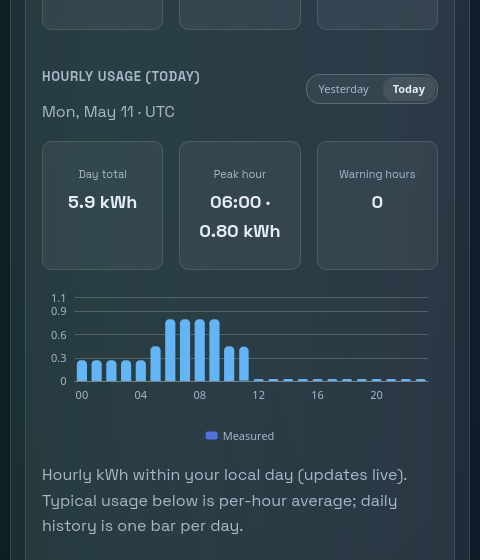
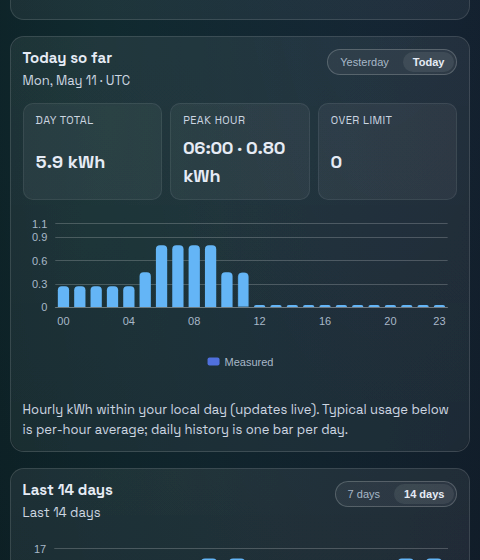
Swap Usage primitives to Material Web components
Replace the page-local segmented toggles, status pills, and the moved
Reset stats button with their Material Web equivalents so the redesign
uses real M3 components rather than bespoke look-alikes.

- createToggleGroup now mounts md-tabs + md-secondary-tab. The active
  tab is reflected via the `active` attribute; the change callback
  guards against the programmatic-set echo so callers don't double-fire.
- The "vs pace" hero chip and the "No data" day-status pill are now
  md-assist-chip. Tone-driven styling (ok / warn / alert / muted) is
  applied via a thin data-tone CSS layer over Material Web's design
  tokens.
- The week-nav (‹/›) buttons inside the collapsed Detailed hourly view
  use md-text-button; the relocated "Reset all stats" button in
  Settings → Advanced → Data management is md-text-button as well.
- Register the new components (md-tabs, md-secondary-tab, md-assist-chip)
  in materialWeb.ts, and stub Element.prototype.scrollTo in the vitest
  setup since md-tabs scrolls the active tab into view on activate and
  jsdom does not implement scrollTo.

diff --git a/packages/settings-ui/public/style.css b/packages/settings-ui/public/style.css
@@ -4992,13 +4992,64 @@ body[data-ui-variant="redesign"] #devices-panel > .card__header {
 
 .usage-week-nav {
   flex: none;
+  display: inline-flex;
+  align-items: center;
+  gap: var(--spacing-1);
 }
 
-.usage-week-nav .day-view-toggle__button {
-  min-width: 36px;
-  padding-inline: var(--spacing-3);
-  font-size: 1.1rem;
-  line-height: 1;
+/* Material Web Secondary Tabs as our segmented control. */
+.pels-segmented-tabs {
+  --md-secondary-tab-container-color: var(--pels-surface-container-low);
+  --md-secondary-tab-active-indicator-color: var(--accent);
+  --md-secondary-tab-active-label-text-color: var(--accent);
+  --md-secondary-tab-label-text-color: var(--pels-text-secondary);
+  --md-secondary-tab-label-text-font: inherit;
+  --md-secondary-tab-label-text-size: var(--font-size-sm, 0.875rem);
+  --md-secondary-tab-container-height: 36px;
+  --md-sys-color-surface: var(--pels-surface-container-low);
+  --md-sys-color-surface-variant: var(--pels-surface-container-low);
+  border-radius: var(--radius-md);
+  background: var(--pels-surface-container-low);
+  border: 1px solid var(--pels-surface-outline);
+  overflow: hidden;
+  min-width: 0;
+}
+
+/* Material Web assist chips: tonal status variants driven by data-tone. */
+md-assist-chip[data-tone] {
+  --md-assist-chip-outline-color: var(--pels-surface-outline);
+  --md-assist-chip-label-text-color: var(--pels-text-primary, var(--text));
+  --md-assist-chip-label-text-font: inherit;
+  --md-assist-chip-label-text-size: var(--chip-font-size);
+  --md-assist-chip-container-shape: var(--chip-radius);
+  --md-assist-chip-container-height: 28px;
+}
+
+md-assist-chip[data-tone="ok"] {
+  --md-assist-chip-outline-color: var(--pels-status-good-border);
+  --md-assist-chip-label-text-color: var(--pels-status-on-good);
+  background: var(--pels-status-good-container);
+}
+
+md-assist-chip[data-tone="warn"] {
+  --md-assist-chip-outline-color: var(--pels-status-warning-border);
+  --md-assist-chip-label-text-color: var(--pels-status-on-warning);
+  background: var(--pels-status-warning-container);
+}
+
+md-assist-chip[data-tone="alert"] {
+  --md-assist-chip-outline-color: var(--pels-status-critical-border);
+  --md-assist-chip-label-text-color: var(--pels-status-on-critical);
+  background: var(--pels-status-critical-container);
+}
+
+md-assist-chip[data-tone="muted"] {
+  background: var(--pels-surface-container-high);
+  --md-assist-chip-label-text-color: var(--pels-text-secondary);
+}
+
+md-assist-chip[hidden] {
+  display: none;
 }
 
 .usage-footer {

diff --git a/settings/style.css b/settings/style.css
@@ -4992,13 +4992,64 @@ body[data-ui-variant="redesign"] #devices-panel > .card__header {
 
 .usage-week-nav {
   flex: none;
+  display: inline-flex;
+  align-items: center;
+  gap: var(--spacing-1);
 }
 
-.usage-week-nav .day-view-toggle__button {
-  min-width: 36px;
-  padding-inline: var(--spacing-3);
-  font-size: 1.1rem;
-  line-height: 1;
+/* Material Web Secondary Tabs as our segmented control. */
+.pels-segmented-tabs {
+  --md-secondary-tab-container-color: var(--pels-surface-container-low);
+  --md-secondary-tab-active-indicator-color: var(--accent);
+  --md-secondary-tab-active-label-text-color: var(--accent);
+  --md-secondary-tab-label-text-color: var(--pels-text-secondary);
+  --md-secondary-tab-label-text-font: inherit;
+  --md-secondary-tab-label-text-size: var(--font-size-sm, 0.875rem);
+  --md-secondary-tab-container-height: 36px;
+  --md-sys-color-surface: var(--pels-surface-container-low);
+  --md-sys-color-surface-variant: var(--pels-surface-container-low);
+  border-radius: var(--radius-md);
+  background: var(--pels-surface-container-low);
+  border: 1px solid var(--pels-surface-outline);
+  overflow: hidden;
+  min-width: 0;
+}
+
+/* Material Web assist chips: tonal status variants driven by data-tone. */
+md-assist-chip[data-tone] {
+  --md-assist-chip-outline-color: var(--pels-surface-outline);
+  --md-assist-chip-label-text-color: var(--pels-text-primary, var(--text));
+  --md-assist-chip-label-text-font: inherit;
+  --md-assist-chip-label-text-size: var(--chip-font-size);
+  --md-assist-chip-container-shape: var(--chip-radius);
+  --md-assist-chip-container-height: 28px;
+}
+
+md-assist-chip[data-tone="ok"] {
+  --md-assist-chip-outline-color: var(--pels-status-good-border);
+  --md-assist-chip-label-text-color: var(--pels-status-on-good);
+  background: var(--pels-status-good-container);
+}
+
+md-assist-chip[data-tone="warn"] {
+  --md-assist-chip-outline-color: var(--pels-status-warning-border);
+  --md-assist-chip-label-text-color: var(--pels-status-on-warning);
+  background: var(--pels-status-warning-container);
+}
+
+md-assist-chip[data-tone="alert"] {
+  --md-assist-chip-outline-color: var(--pels-status-critical-border);
+  --md-assist-chip-label-text-color: var(--pels-status-on-critical);
+  background: var(--pels-status-critical-container);
+}
+
+md-assist-chip[data-tone="muted"] {
+  background: var(--pels-surface-container-high);
+  --md-assist-chip-label-text-color: var(--pels-text-secondary);
+}
+
+md-assist-chip[hidden] {
+  display: none;
 }
 
 .usage-footer {

diff --git a/packages/settings-ui/src/ui/components.ts b/packages/settings-ui/src/ui/components.ts
@@ -340,37 +340,47 @@ export type ToggleGroupResult<T extends string> = {
 };
 
 /**
- * Creates a button-group toggle (day-view style). Returns the container element
- * and a setActive helper so callers never touch classes directly.
+ * Creates a segmented toggle using Material Web Secondary Tabs (`md-tabs`).
+ * Returns the container element and a setActive helper so callers don't have to
+ * touch the tab elements directly. Activation events are debounced to a single
+ * `onSelect` callback per user click.
  */
 export const createToggleGroup = <T extends string>(
     options: ToggleOption<T>[],
     ariaLabel: string,
     onSelect: (value: T) => void,
 ): ToggleGroupResult<T> => {
-    const container = document.createElement('div');
-    container.className = 'day-view-toggle';
-    container.setAttribute('role', 'group');
+    const container = document.createElement('md-tabs');
+    container.className = 'pels-segmented-tabs';
     container.setAttribute('aria-label', ariaLabel);
 
-    const buttons = new Map<T, HTMLButtonElement>();
+    const tabs = new Map<T, HTMLElement>();
     options.forEach(({ value, label }) => {
-        const btn = document.createElement('button');
-        btn.type = 'button';
-        btn.className = 'day-view-toggle__button';
-        btn.textContent = label;
-        btn.setAttribute('aria-pressed', 'false');
-        btn.addEventListener('click', () => onSelect(value));
-        container.appendChild(btn);
-        buttons.set(value, btn);
+        const tab = document.createElement('md-secondary-tab');
+        tab.textContent = label;
+        tab.dataset.value = value;
+        container.appendChild(tab);
+        tabs.set(value, tab);
+    });
+
+    // `md-tabs` fires `change` when the active tab updates, including via
+    // setAttribute('active', ...). Suppress the callback when we set the active
+    // tab programmatically so callers don't double-fire.
+    let suppressChange = false;
+    container.addEventListener('change', () => {
+        if (suppressChange) return;
+        const activeTab = (container as unknown as { activeTab?: HTMLElement }).activeTab;
+        const value = activeTab?.dataset?.value as T | undefined;
+        if (value !== undefined) onSelect(value);
     });
 
     const setActive = (active: T | null) => {
-        buttons.forEach((btn, value) => {
-            const isActive = value === active;
-            btn.classList.toggle('is-active', isActive);
-            btn.setAttribute('aria-pressed', String(isActive));
+        suppressChange = true;
+        tabs.forEach((tab, value) => {
+            if (value === active) tab.setAttribute('active', '');
+            else tab.removeAttribute('active');
         });
+        suppressChange = false;
     };
 
     return { element: container, setActive };

diff --git a/packages/settings-ui/src/ui/power.ts b/packages/settings-ui/src/ui/power.ts
@@ -312,20 +312,13 @@ const setHeroTone = (hero: HTMLElement | null, tone: 'ok' | 'warn' | 'alert') =>
 
 type ChipTone = 'ok' | 'warn' | 'alert' | 'muted';
 
-const CHIP_TONE_CLASSES: readonly string[] = [
-  'plan-chip--ok',
-  'plan-chip--warn',
-  'plan-chip--alert',
-  'plan-chip--muted',
-];
-
 const setHeroChip = (chip: HTMLElement | null, label: string, tone: ChipTone) => {
   if (!chip) return;
   const target = chip;
-  target.textContent = label;
+  // md-assist-chip uses the `label` attribute for its displayed text.
+  target.setAttribute('label', label);
+  target.dataset.tone = tone;
   target.hidden = false;
-  target.classList.remove(...CHIP_TONE_CLASSES);
-  target.classList.add(`plan-chip--${tone}`);
 };
 
 const setHeroText = (id: string, text: string | null) => {

diff --git a/packages/settings-ui/public/index.html b/packages/settings-ui/public/index.html
@@ -341,7 +341,7 @@
         <div class="plan-hero__section">
           <div class="plan-hero__headline-row">
             <div class="plan-hero__headline" id="usage-hero-headline">-- kWh today</div>
-            <span class="plan-chip plan-chip--muted usage-hero__delta" id="usage-hero-delta" hidden>--</span>
+            <md-assist-chip class="usage-hero__delta" data-tone="muted" id="usage-hero-delta" label="--" hidden></md-assist-chip>
           </div>
           <div class="plan-hero__subline plan-hero__subline--muted" id="usage-hero-comparison">Gathering data…</div>
           <p class="plan-hero__decision" id="usage-hero-projection" hidden></p>
@@ -372,7 +372,7 @@
           </div>
           <div class="usage-card__actions">
             <div id="usage-day-toggle-mount"></div>
-            <span class="plan-chip plan-chip--muted" id="usage-day-status-pill">No data</span>
+            <md-assist-chip data-tone="muted" id="usage-day-status-pill" label="No data"></md-assist-chip>
           </div>
         </div>
         <div class="usage-metric-row">
@@ -450,9 +450,9 @@
         <md-elevation aria-hidden="true"></md-elevation>
         <div class="usage-card__collapsible-content">
           <div class="usage-card__actions usage-card__actions--standalone">
-            <div class="day-view-toggle usage-week-nav" role="group" aria-label="Hourly detail week">
-              <button type="button" class="day-view-toggle__button" id="power-week-prev" aria-label="Previous week">‹</button>
-              <button type="button" class="day-view-toggle__button" id="power-week-next" aria-label="Next week">›</button>
+            <div class="usage-week-nav" role="group" aria-label="Hourly detail week">
+              <md-text-button id="power-week-prev" aria-label="Previous week">‹</md-text-button>
+              <md-text-button id="power-week-next" aria-label="Next week">›</md-text-button>
             </div>
           </div>
           <ul id="power-list" class="device-list usage-list"></ul>
@@ -706,7 +706,7 @@
           <div class="form-grid">
             <p class="muted">Reset all usage statistics: hourly samples, daily totals, and weekday/weekend averages. PELS will start collecting fresh history after the reset.</p>
             <div class="inline-actions">
-              <button type="button" class="btn ghost" id="reset-stats-button">Reset all stats</button>
+              <md-text-button id="reset-stats-button">Reset all stats</md-text-button>
             </div>
           </div>
         </div>

diff --git a/settings/index.html b/settings/index.html
@@ -341,7 +341,7 @@
         <div class="plan-hero__section">
           <div class="plan-hero__headline-row">
             <div class="plan-hero__headline" id="usage-hero-headline">-- kWh today</div>
-            <span class="plan-chip plan-chip--muted usage-hero__delta" id="usage-hero-delta" hidden>--</span>
+            <md-assist-chip class="usage-hero__delta" data-tone="muted" id="usage-hero-delta" label="--" hidden></md-assist-chip>
           </div>
           <div class="plan-hero__subline plan-hero__subline--muted" id="usage-hero-comparison">Gathering data…</div>
           <p class="plan-hero__decision" id="usage-hero-projection" hidden></p>
@@ -372,7 +372,7 @@
           </div>
           <div class="usage-card__actions">
             <div id="usage-day-toggle-mount"></div>
-            <span class="plan-chip plan-chip--muted" id="usage-day-status-pill">No data</span>
+            <md-assist-chip data-tone="muted" id="usage-day-status-pill" label="No data"></md-assist-chip>
           </div>
         </div>
         <div class="usage-metric-row">
@@ -450,9 +450,9 @@
         <md-elevation aria-hidden="true"></md-elevation>
         <div class="usage-card__collapsible-content">
           <div class="usage-card__actions usage-card__actions--standalone">
-            <div class="day-view-toggle usage-week-nav" role="group" aria-label="Hourly detail week">
-              <button type="button" class="day-view-toggle__button" id="power-week-prev" aria-label="Previous week">‹</button>
-              <button type="button" class="day-view-toggle__button" id="power-week-next" aria-label="Next week">›</button>
+            <div class="usage-week-nav" role="group" aria-label="Hourly detail week">
+              <md-text-button id="power-week-prev" aria-label="Previous week">‹</md-text-button>
+              <md-text-button id="power-week-next" aria-label="Next week">›</md-text-button>
             </div>
           </div>
           <ul id="power-list" class="device-list usage-list"></ul>
@@ -706,7 +706,7 @@
           <div class="form-grid">
             <p class="muted">Reset all usage statistics: hourly samples, daily totals, and weekday/weekend averages. PELS will start collecting fresh history after the reset.</p>
             <div class="inline-actions">
-              <button type="button" class="btn ghost" id="reset-stats-button">Reset all stats</button>
+              <md-text-button id="reset-stats-button">Reset all stats</md-text-button>
             </div>
           </div>
         </div>

diff --git a/packages/settings-ui/test/setup.ts b/packages/settings-ui/test/setup.ts
@@ -77,6 +77,13 @@ beforeAll(() => {
   }
   installCanvasContextStub();
 
+  // jsdom does not implement Element.prototype.scrollTo, which Material Web's
+  // md-tabs calls when activating a tab. Provide a no-op stub so tests that
+  // mount tabs (or load components that import md-tabs) don't crash.
+  if (typeof Element !== 'undefined' && typeof (Element.prototype as Element & { scrollTo?: unknown }).scrollTo !== 'function') {
+    (Element.prototype as Element & { scrollTo: () => void }).scrollTo = () => {};
+  }
+
   const fetchStub = vi.fn().mockResolvedValue({
     ok: true,
     status: 200,

diff --git a/packages/settings-ui/src/ui/usageDayView.ts b/packages/settings-ui/src/ui/usageDayView.ts
@@ -54,9 +54,9 @@ let setUsageDayToggleActive: (view: UsageDayView | null) => void = () => {};
 const setUsageDayStatus = (text: string, tone?: 'ok' | 'warn') => {
   if (!usageDayStatusPill) return;
   if (tone === 'warn') {
-    usageDayStatusPill.textContent = text;
-    usageDayStatusPill.classList.remove('ok');
-    usageDayStatusPill.classList.add('warn');
+    // The pill is an md-assist-chip; its displayed text is the `label` attribute.
+    usageDayStatusPill.setAttribute('label', text);
+    usageDayStatusPill.dataset.tone = 'warn';
     usageDayStatusPill.hidden = false;
   } else {
     usageDayStatusPill.hidden = true;

diff --git a/packages/settings-ui/src/ui/materialWeb.ts b/packages/settings-ui/src/ui/materialWeb.ts
@@ -10,3 +10,6 @@ import '@material/web/select/filled-select.js';
 import '@material/web/select/select-option.js';
 import '@material/web/button/filled-button.js';
 import '@material/web/button/text-button.js';
+import '@material/web/tabs/tabs.js';
+import '@material/web/tabs/secondary-tab.js';
+import '@material/web/chips/assist-chip.js';

diff --git a/packages/settings-ui/tests/e2e/power-usage-zero.spec.ts b/packages/settings-ui/tests/e2e/power-usage-zero.spec.ts
@@ -65,7 +65,7 @@ test.describe('Usage zero-value handling', () => {
     await expect(page.locator('#usage-day-empty')).toBeHidden();
     await expect(page.locator('#usage-day-total')).toHaveText('0.0 kWh');
     await expect(page.locator('#usage-day-status-pill')).toBeVisible();
-    await expect(page.locator('#usage-day-status-pill')).toHaveText('Warnings (1h)');
+    await expect(page.locator('#usage-day-status-pill')).toHaveAttribute('label', 'Warnings (1h)');
   });
 
   test('treats repeated zero samples in the hour as valid data', async ({ page }) => {